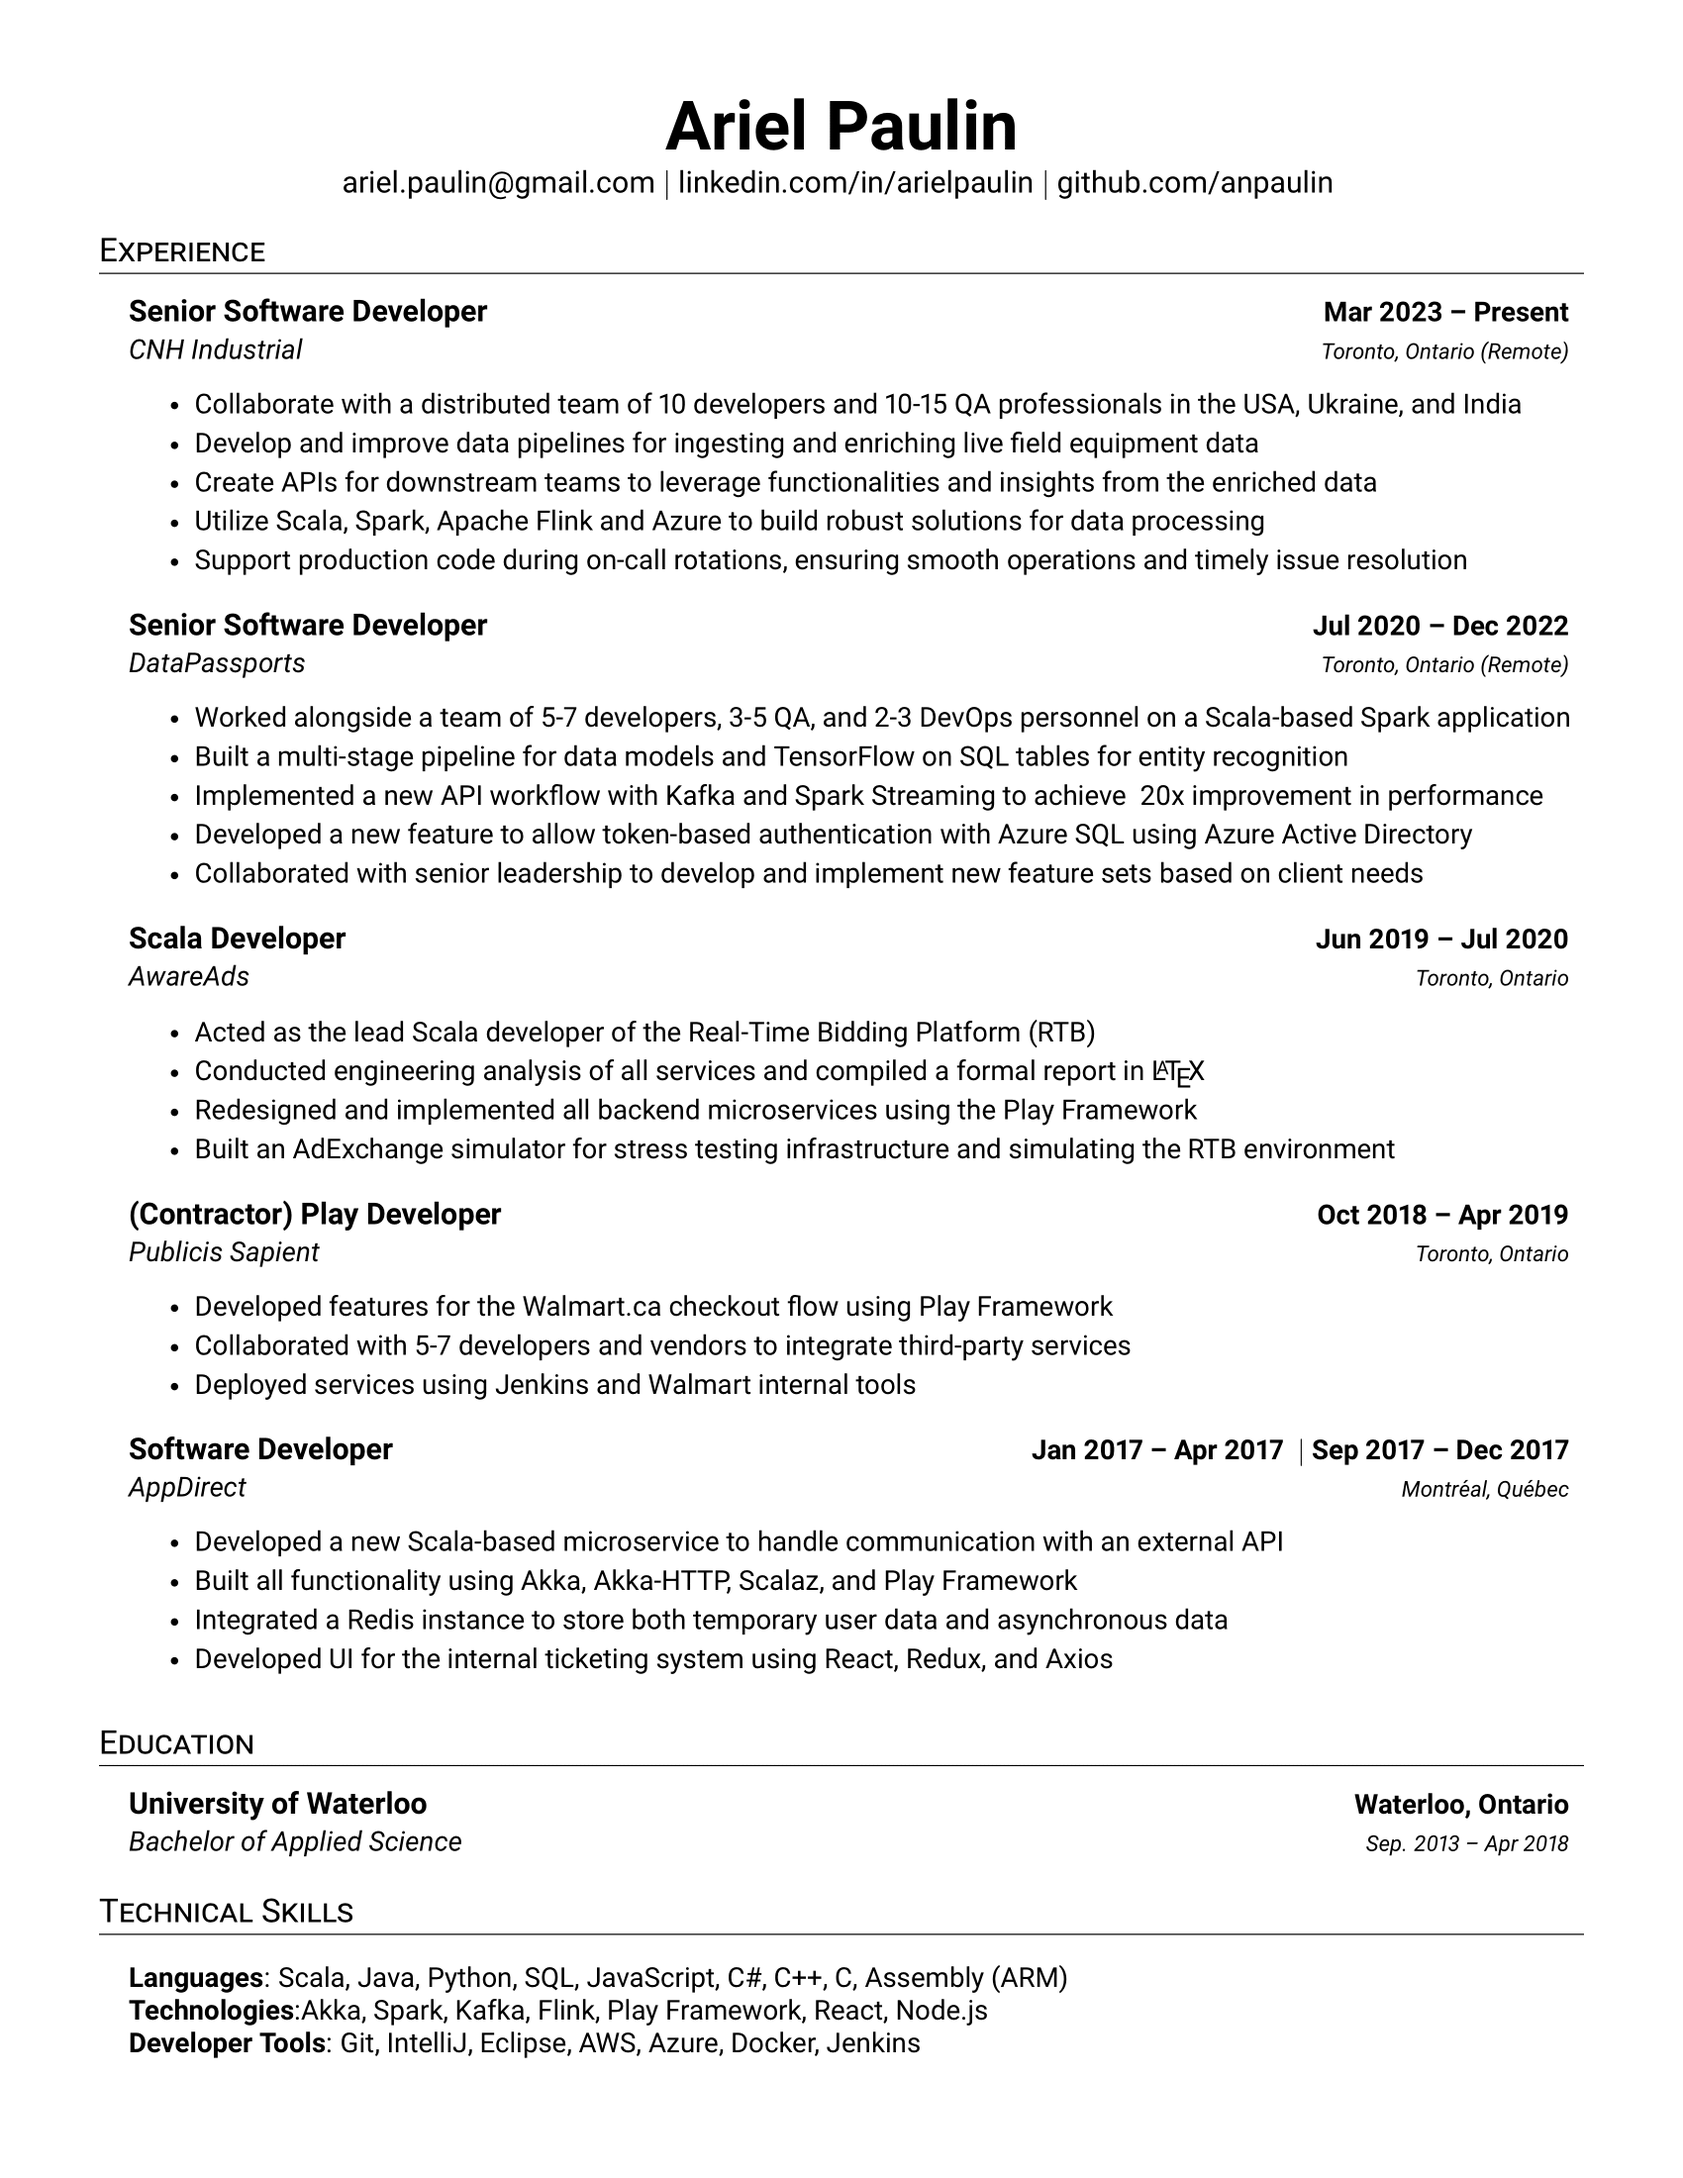
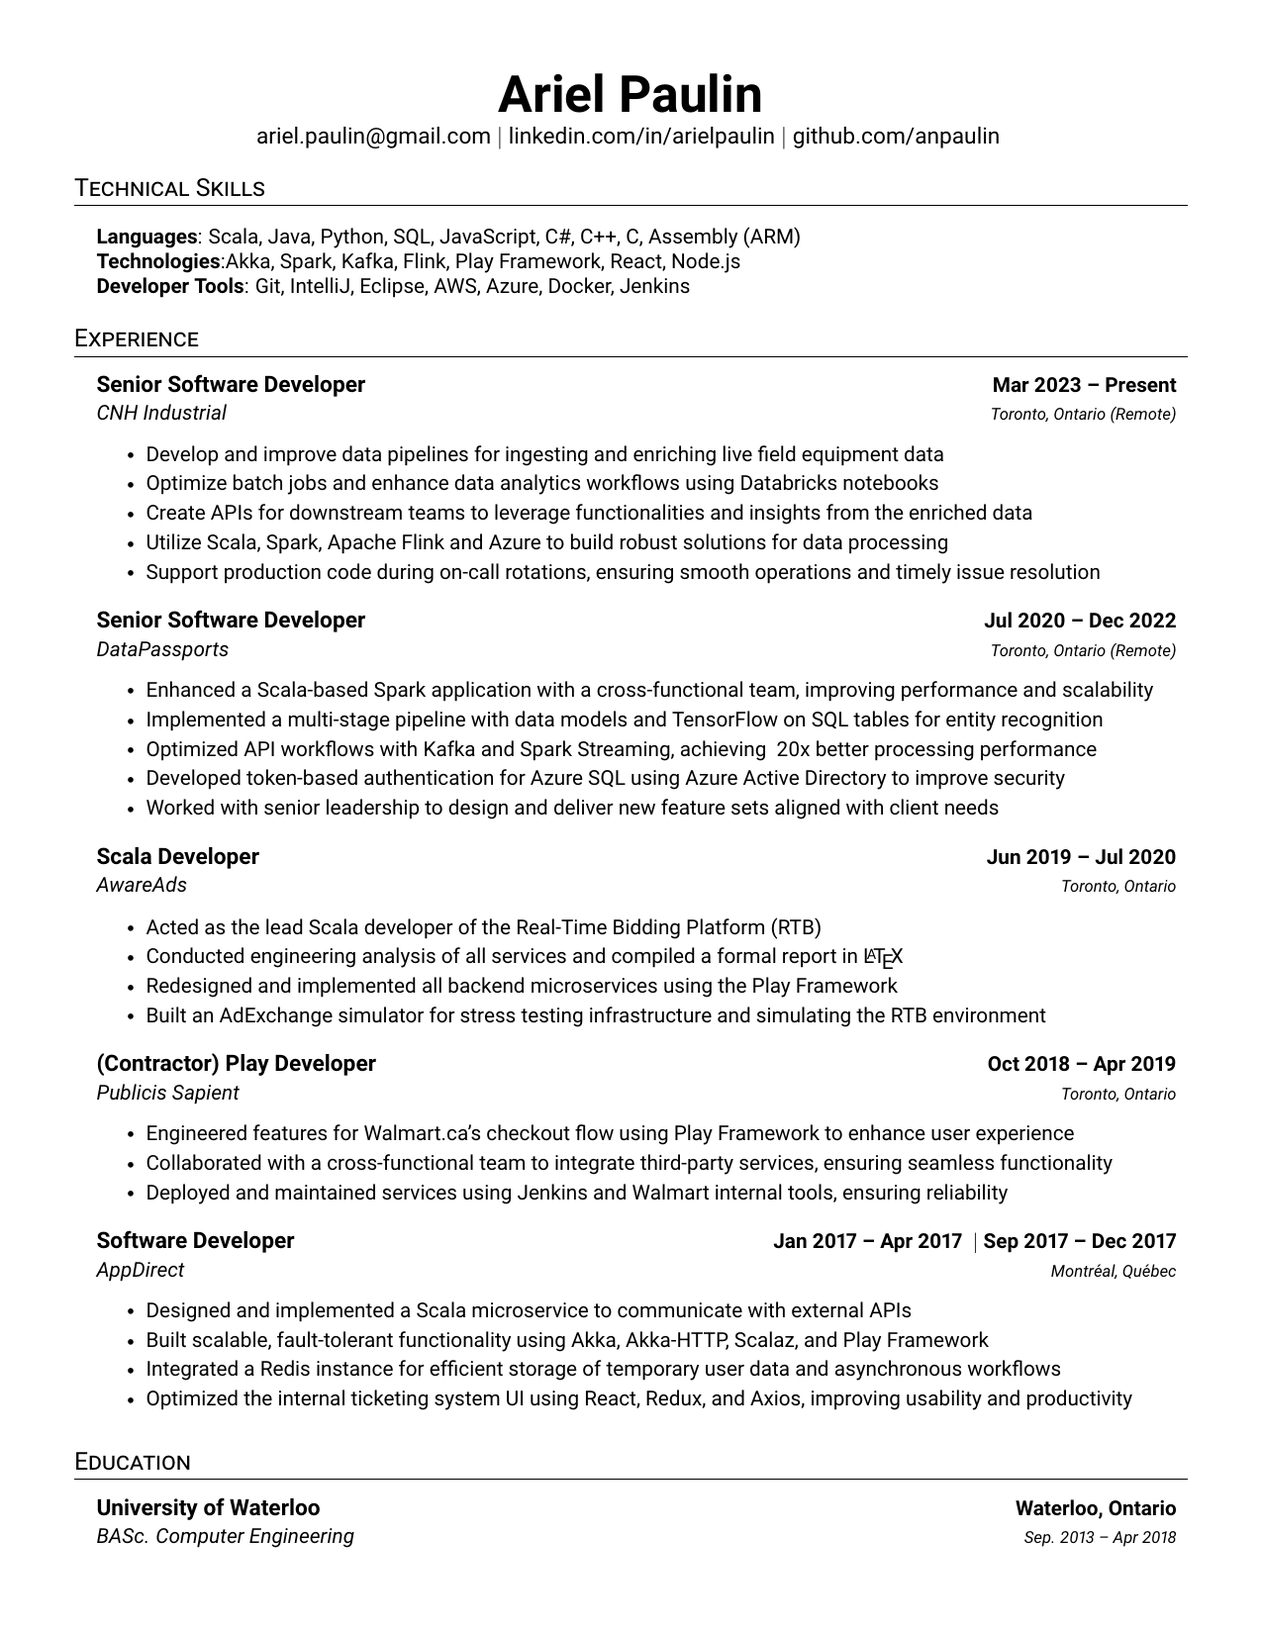
update index.html to show a png of the resume and offer a download button for the resume as a pdf

diff --git a/index.html b/index.html
@@ -1,7 +1,76 @@
 <!DOCTYPE html>
-<html>
+<html lang="en">
 <head>
-    <meta http-equiv="refresh" content="0;url=http://raw.githubusercontent.com/anpaulin/resume/master/ariel_paulin.pdf">
-</head>
-</html>
+    <meta charset="UTF-8">
+    <meta name="viewport" content="width=device-width, initial-scale=1.0">
+    <title>Image and Download</title>
+    <style>
+        /* Center the content in the body */
+        body {
+            display: flex;
+            justify-content: center;
+            align-items: center;
+            height: 100vh;
+            margin: 0;
+            background-color: #f0f0f0;
+            position: relative; /* For positioning the download button */
+        }
 
+        /* Style for the image (Desktop view) */
+        img {
+            width: 65%;
+            height: auto;
+            display: block;
+            margin: auto;
+        }
+
+        /* Style for the download button */
+        .download-button {
+            position: fixed;
+            top: 20px;
+            right: 20px;
+            background-color: #4CAF50;
+            color: white;
+            padding: 10px 20px;
+            font-size: 16px;
+            border: none;
+            cursor: pointer;
+            border-radius: 5px;
+        }
+
+        .download-button:hover {
+            background-color: #45a049;
+        }
+
+        /* Mobile view adjustments (under 600px) */
+        @media (max-width: 600px) {
+            /* Adjust image to take full width of screen */
+            img {
+                width: 100%;
+                max-width: 100%;
+                object-fit: contain; /* Keeps aspect ratio */
+            }
+
+            /* Style for the download button */
+            .download-button {
+                padding: 12px 25px;
+                font-size: 18px;
+                position: absolute; /* Keeps button fixed at the top-right corner */
+                top: 20px;
+                right: 20px;
+            }
+        }
+    </style>
+</head>
+<body>
+
+<!-- The download button -->
+<a href="https://raw.githubusercontent.com/anpaulin/resume/master/ariel_paulin.pdf" download>
+    <button class="download-button">Download Resume</button>
+</a>
+
+<!-- The PNG image -->
+<img src="https://raw.githubusercontent.com/anpaulin/resume/master/ariel_paulin.png" alt="Ariel Paulin">
+
+</body>
+</html>

diff --git a/ariel_paulin.tex b/ariel_paulin.tex
@@ -119,6 +119,17 @@
     \vspace{-1pt}
 \end{center}
 
+%
+%-----------PROGRAMMING SKILLS-----------
+\section{Technical Skills}
+ \begin{itemize}[leftmargin=0.15in, label={}]
+    \small{\item{
+     \textbf{Languages}{: Scala, Java, Python, SQL, JavaScript, C\#, C++, C, Assembly (ARM)} \\
+     \textbf{Technologies}{:Akka, Spark, Kafka, Flink, Play Framework, React, Node.js} \\
+     \textbf{Developer Tools}{: Git, IntelliJ, Eclipse, AWS, Azure, Docker, Jenkins}
+    }}
+ \end{itemize}
+
 
 %-----------EXPERIENCE-----------
 \section{Experience}
@@ -132,7 +143,7 @@
          \resumeItem{Optimize batch jobs and enhance data analytics workflows using Databricks notebooks}
          \resumeItem{Create APIs for downstream teams to leverage functionalities and insights from the enriched data}
          \resumeItem{Utilize Scala, Spark, Apache Flink and Azure to build robust solutions for data processing}
-\resumeItem{Support production code during on-call rotations, ensuring smooth operations and timely issue resolution}
+		 \resumeItem{Support production code during on-call rotations, ensuring smooth operations and timely issue resolution}
       \resumeItemListEnd
       
 \resumeSubheading
@@ -205,18 +216,6 @@
       {University of Waterloo}{Waterloo, Ontario}
       {BASc. Computer Engineering}{Sep. 2013 -- Apr 2018}
   \resumeSubHeadingListEnd
-
-
-%
-%-----------PROGRAMMING SKILLS-----------
-\section{Technical Skills}
- \begin{itemize}[leftmargin=0.15in, label={}]
-    \small{\item{
-     \textbf{Languages}{: Scala, Java, Python, SQL, JavaScript, C\#, C++, C, Assembly (ARM)} \\
-     \textbf{Technologies}{:Akka, Spark, Kafka, Flink, Play Framework, React, Node.js} \\
-     \textbf{Developer Tools}{: Git, IntelliJ, Eclipse, AWS, Azure, Docker, Jenkins}
-    }}
- \end{itemize}
 
 
 %-------------------------------------------
